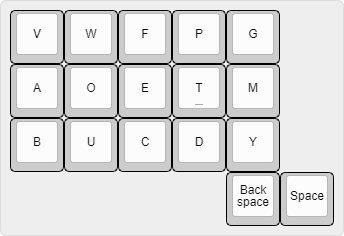
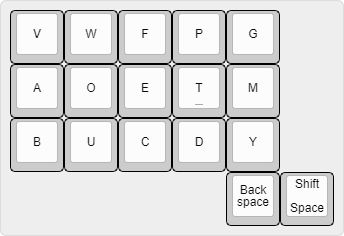
image fix

Changed region(s): [[0.843, 0.7415, 0.9593, 0.9195]]

diff --git a/README.md b/README.md
@@ -32,7 +32,7 @@ Chord | Action | Chord | Action | Chord | Action
 
 Chord | Action
 --- | ---
-![shift](/images/layer-shift.png) | Tap for `space`, hold for `shift` when on layers other than the base layer.
+![shift](/images/layer-shift.png) | Tap for `space`, hold for `shift`.
 ![lock](/images/lock.png) | `Backspace`. Add to any modifier (`shift`, `control`, `alt`, or `gui`) to lock or unlock the modifier.
 
 ### Nav (L1)
